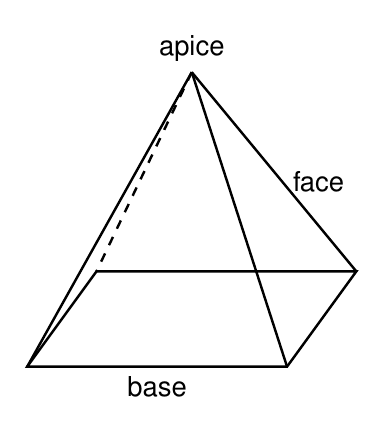
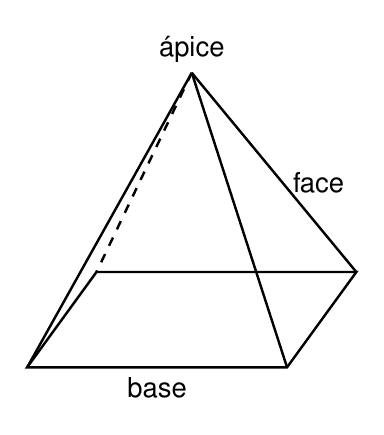
Corrige acentuacao em TikZ de Geometria

diff --git a/Geometria/7ano/unidade-4-quadrilateros-e-poligonos-regulares/figuras_cap01_classificacao-de-quadrilateros.tex b/Geometria/7ano/unidade-4-quadrilateros-e-poligonos-regulares/figuras_cap01_classificacao-de-quadrilateros.tex
@@ -33,7 +33,7 @@
 % TikZ 3
 \begin{tikzpicture}[scale=1]
 \draw[thick] (0,0) rectangle (2.5,1.4);
-\node[below] at (1.25,0) {retangulo};
+\node[below] at (1.25,0) {retângulo};
 \draw[thick] (4,0)--(5.2,1)--(4,2)--(2.8,1)--cycle;
 \node[below] at (4,0) {losango};
 \draw[thick] (6.4,0) rectangle (8.1,1.7);
@@ -42,15 +42,15 @@
 % TikZ 4
 \begin{tikzpicture}[scale=1]
 \draw[thick] (0,0) rectangle (7,4);
-\node at (3.5,3.65) {quadrilateros};
+\node at (3.5,3.65) {quadriláteros};
 \draw[thick] (.7,.5) rectangle (6.3,3.2);
 \node at (3.5,2.9) {paralelogramos};
 \draw[thick] (1.1,.9) rectangle (3.7,2.3);
-\node at (2.4,2.05) {retangulos};
+\node at (2.4,2.05) {retângulos};
 \draw[thick] (3.3,.9) rectangle (5.9,2.3);
 \node at (4.6,2.05) {losangos};
-\draw[thick,fill=gray!12] (2.8,1.15) rectangle (4.2,1.75);
-\node at (3.5,1.45) {quadrados};
+\draw[thick,fill=gray!12] (2.65,1.1) rectangle (4.35,1.75);
+\node at (3.5,1.425) {quadrados};
 \end{tikzpicture}
 
 
@@ -59,10 +59,10 @@
 \coordinate (A) at (0,0); \coordinate (B) at (2.6,0); \coordinate (C) at (2.6,1.5); \coordinate (D) at (.5,1.5);
 \draw[thick] (A)--(B)--(C)--(D)--cycle;
 \pic[draw=blue!70!black, angle radius=4mm] {right angle=D--A--B};
-\node[below] at (1.3,0) {retangulo};
+\node[below] at (1.3,0) {retângulo};
 \coordinate (E) at (4,0); \coordinate (F) at (7,0); \coordinate (G) at (6.3,1.6); \coordinate (H) at (4.7,1.6);
 \draw[thick] (E)--(F)--(G)--(H)--cycle;
-\node[below] at (5.5,0) {isosceles};
+\node[below] at (5.5,0) {isósceles};
 \coordinate (I) at (8.2,0); \coordinate (J) at (11.2,0); \coordinate (K) at (10.4,1.6); \coordinate (L) at (8.8,1.6);
 \draw[thick] (I)--(J)--(K)--(L)--cycle;
 \node[below] at (9.7,0) {escaleno};

diff --git a/Geometria/1serie/unidade-4-quadrilateros/figuras_cap01_classificacao-e-propriedades-gerais.tex b/Geometria/1serie/unidade-4-quadrilateros/figuras_cap01_classificacao-e-propriedades-gerais.tex
@@ -43,7 +43,7 @@
 \begin{tikzpicture}[scale=1]
 \coordinate (A) at (0,0); \coordinate (B) at (4.2,0); \coordinate (C) at (3.4,1.8); \coordinate (D) at (.7,1.8);
 \draw[thick] (A)--(B)--(C)--(D)--cycle;
-\node[below] at (2.1,0) {trapezio};
+\node[below] at (2.1,0) {trapézio};
 \coordinate (E) at (5.6,0); \coordinate (F) at (9.1,0); \coordinate (G) at (10,1.8); \coordinate (H) at (6.5,1.8);
 \draw[thick,blue!70!black] (E)--(F)--(G)--(H)--cycle;
 \node[below] at (7.8,0) {paralelogramo};
@@ -53,16 +53,16 @@
 % TikZ 5
 \begin{tikzpicture}[scale=1]
 \draw[thick] (0,0) rectangle (8,4.4);
-\node at (4,4.05) {quadrilatero};
+\node at (4,4.05) {quadrilátero};
 \draw[thick] (.5,.4) rectangle (7.5,3.55);
-\node at (4,3.25) {trapezio};
+\node at (4,3.25) {trapézio};
 \draw[thick] (1,0.8) rectangle (7,2.8);
 \node at (4,2.5) {paralelogramo};
 \draw[thick] (1.4,1.1) rectangle (3.8,2.1);
-\node at (2.6,1.85) {retangulo};
+\node at (2.6,1.9) {retângulo};
 \draw[thick] (4.2,1.1) rectangle (6.6,2.1);
-\node at (5.4,1.85) {losango};
-\draw[thick,fill=gray!12] (3.35,1.25) rectangle (4.65,1.75);
-\node at (4,1.5) {quadrado};
+\node at (5.4,1.9) {losango};
+\draw[thick,fill=gray!12] (3.2,1.15) rectangle (4.8,1.7);
+\node at (4,1.425) {quadrado};
 \end{tikzpicture}
 \end{document}

diff --git a/Geometria/2serie/unidade-4-piramides/figuras_cap01_elementos-e-classificacao.tex b/Geometria/2serie/unidade-4-piramides/figuras_cap01_elementos-e-classificacao.tex
@@ -13,7 +13,7 @@
 \coordinate (A) at (0,0); \coordinate (B) at (3,0); \coordinate (C) at (3.8,1.1); \coordinate (D) at (.8,1.1); \coordinate (V) at (1.9,3.4);
 \draw[thick] (A)--(B)--(C)--(D)--cycle;
 \draw[thick] (V)--(A); \draw[thick] (V)--(B); \draw[thick] (V)--(C); \draw[thick,dashed] (V)--(D);
-\node[above] at (V) {apice};
+\node[above] at (V) {ápice};
 \node[below] at (1.5,0) {base};
 \node[right] at ($(V)!0.55!(C)$) {face};
 \end{tikzpicture}
@@ -21,7 +21,7 @@
 \begin{tikzpicture}[scale=.95]
 \coordinate (A) at (0,0); \coordinate (B) at (2.5,0); \coordinate (C) at (3.2,.8); \coordinate (D) at (.7,.8); \coordinate (V) at (1.6,2.7);
 \draw[thick] (A)--(B)--(C)--(D)--cycle; \draw[thick] (V)--(A)--(B)--(V); \draw[thick] (V)--(C); \draw[thick,dashed] (V)--(D);
-\node[below] at (1.25,0) {piramide};
+\node[below] at (1.25,0) {pirâmide};
 \coordinate (E) at (5,0); \coordinate (F) at (7.5,0); \coordinate (G) at (8.2,.8); \coordinate (H) at (5.7,.8);
 \coordinate (I) at (5,2); \coordinate (J) at (7.5,2); \coordinate (K) at (8.2,2.8); \coordinate (L) at (5.7,2.8);
 \draw[thick] (E)--(F)--(G)--(H)--cycle; \draw[thick] (I)--(J)--(K)--(L)--cycle;

diff --git a/Geometria/2serie/unidade-4-piramides/figuras_cap02_areas-volumes-e-tronco-de-piramide.tex b/Geometria/2serie/unidade-4-piramides/figuras_cap02_areas-volumes-e-tronco-de-piramide.tex
@@ -26,7 +26,7 @@
 \node[below] at (1.4,0) {prisma};
 \coordinate (I) at (5,0); \coordinate (J) at (7.8,0); \coordinate (K) at (8.6,1); \coordinate (L) at (5.8,1); \coordinate (V) at (6.8,3.7);
 \draw[thick] (I)--(J)--(K)--(L)--cycle; \draw[thick] (V)--(I); \draw[thick] (V)--(J); \draw[thick] (V)--(K); \draw[thick,dashed] (V)--(L);
-\node[below] at (6.4,0) {piramide};
+\node[below] at (6.4,0) {pirâmide};
 \end{tikzpicture}
 
 

diff --git a/_tools/PLANEJAMENTO_REVISAO_ACENTUACAO_TIKZ_POR_DISCIPLINA.md b/_tools/PLANEJAMENTO_REVISAO_ACENTUACAO_TIKZ_POR_DISCIPLINA.md
@@ -13,7 +13,7 @@ Fontes TikZ ativas encontradas fora de `_legado/`:
 | 1 | Quimica | 11 | Concluido |
 | 2 | Biologia | 14 | Concluido |
 | 3 | Fisica | 16 | Concluido |
-| 4 | Geometria | 20 | Pendente |
+| 4 | Geometria | 20 | Concluido |
 |  | **Total** | **61** |  |
 
 ## Regra de Execucao
@@ -201,7 +201,8 @@ git commit -m "Corrige acentuacao em TikZ de Geometria"
 - Quimica: revisada, corrigida, renderizada e validada neste lote.
 - Biologia: revisada, corrigida, renderizada e validada neste lote.
 - Fisica: revisada, corrigida, renderizada e validada neste lote.
+- Geometria: revisada, corrigida, renderizada e validada neste lote.
 
 ## Proximo Passo
 
-Iniciar o **Lote 4 - Geometria** depois do commit e push do lote de Fisica.
+Todos os lotes previstos foram revisados, renderizados, validados, commitados e enviados.
